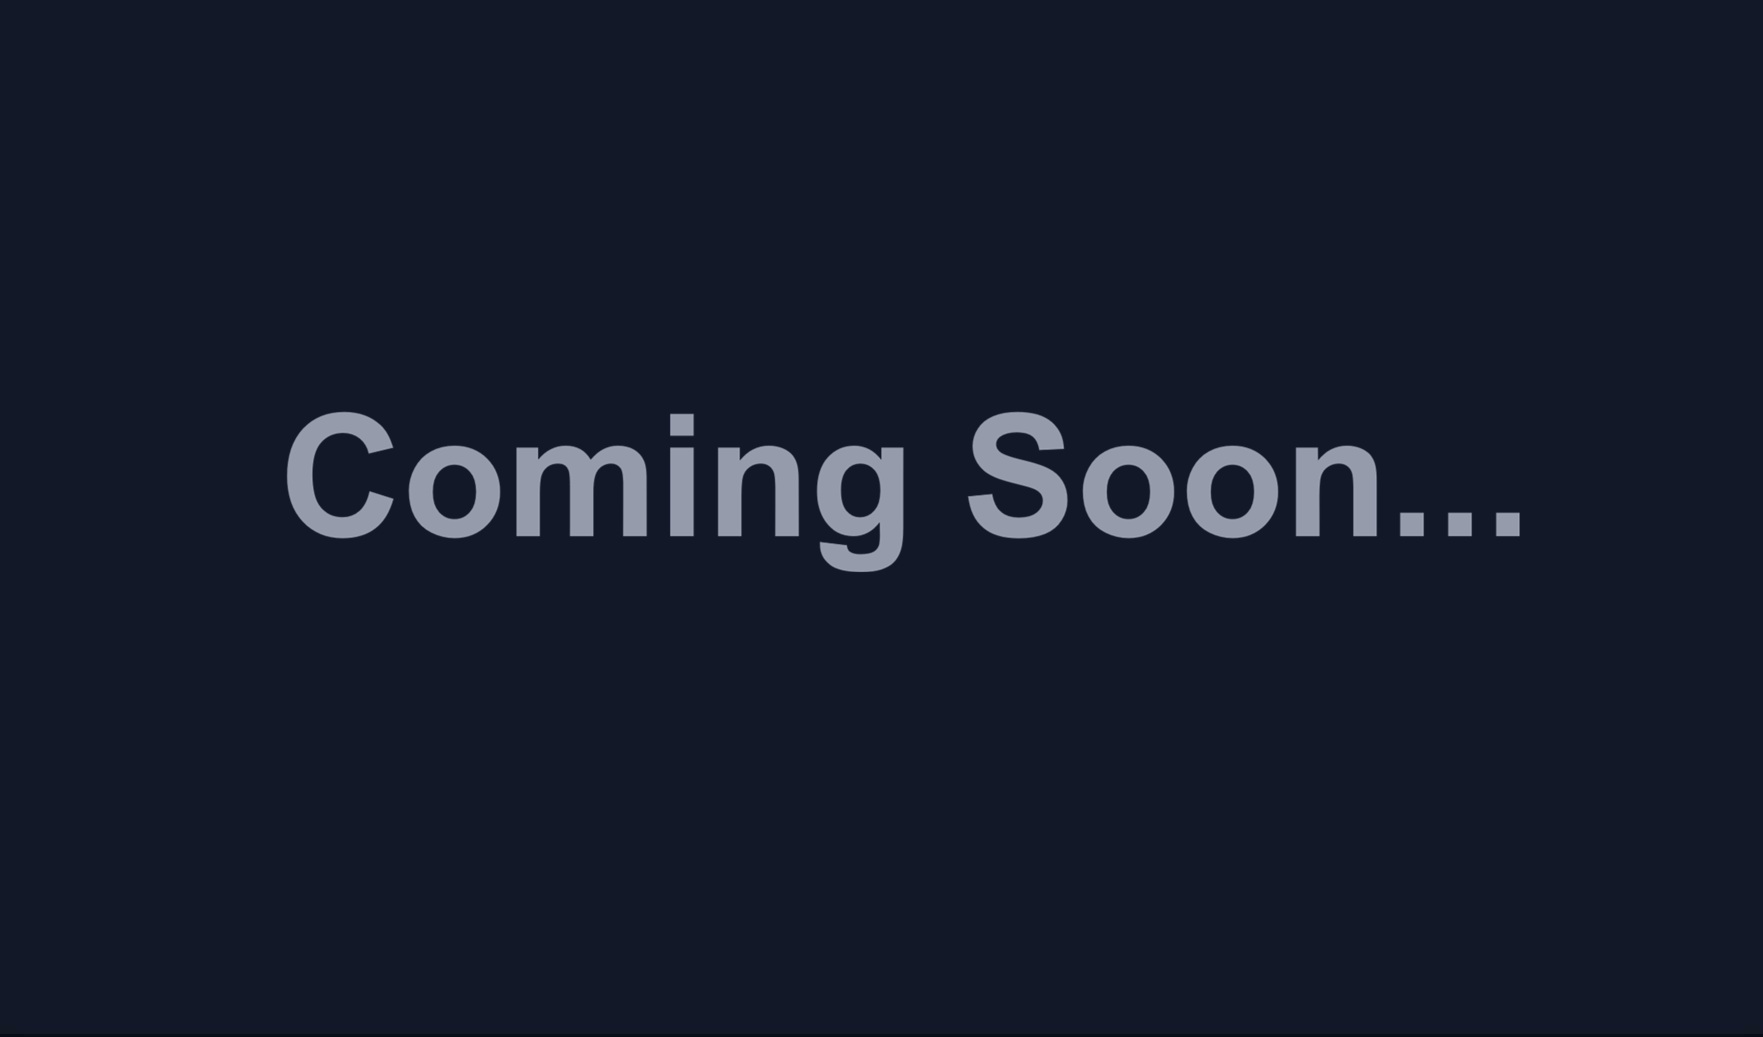
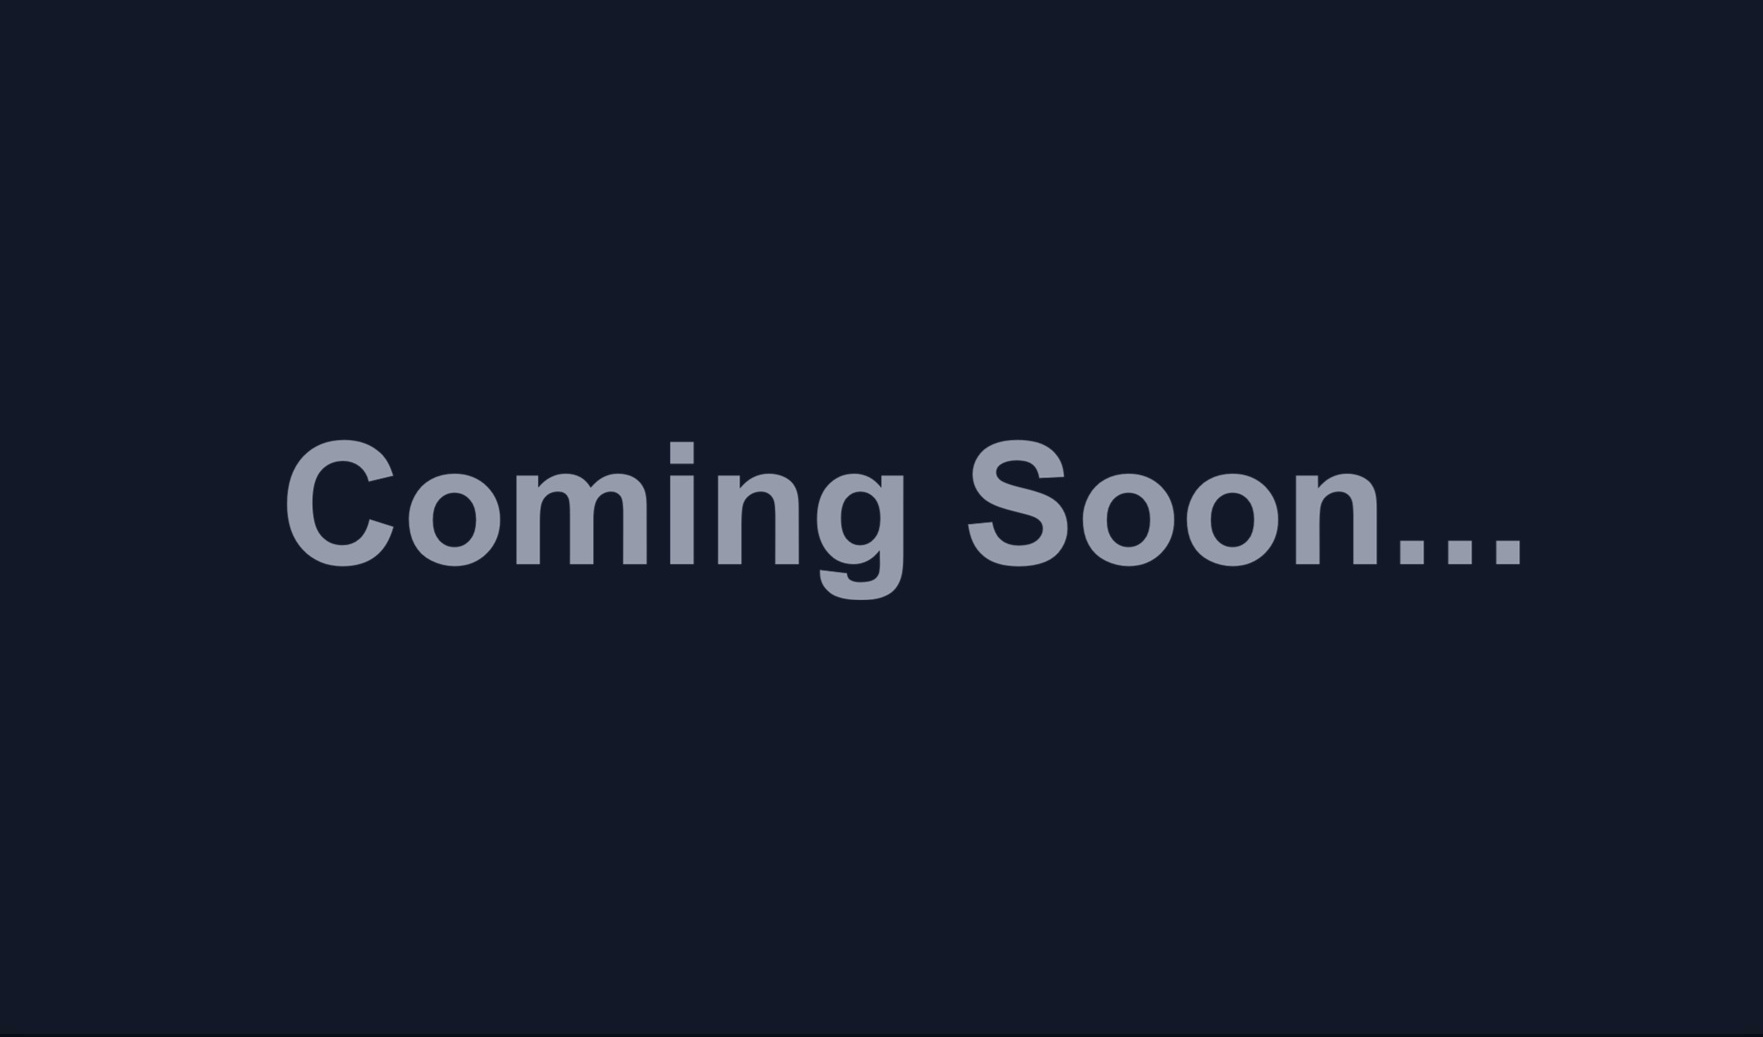
Quick Fix

Changed region(s): [[0.156, 0.4012, 0.8735, 0.5863]]

diff --git a/src/sections/ProjectsSection.jsx b/src/sections/ProjectsSection.jsx
@@ -29,7 +29,7 @@ function ProjectSection() {
         "A responsive personal portfolio showcasing projects, skills, and experience with smooth animations, dark/light mode, and a modern UI built using React.",
       tags: ["React", "Tailwind CSS"],
       imageURL: "portfolio-screenshot.jpeg",
-      liveDemoURL: "https://profrontdev.netlify.app/",
+      liveDemoURL: "https://abdulhaiportfolio.netlify.app/",
       sourceCodeURL: "https://github.com/abdulhaiabid/portfolio-website",
     },
     {
